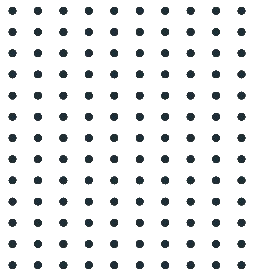
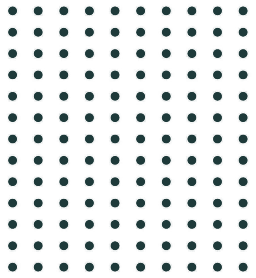
update 5
update 5

diff --git a/visual.css b/visual.css
@@ -18,6 +18,7 @@ body {
 
 .container_header_top {
     position: fixed;
+    z-index: 1;
 }
 
 .header_top {
@@ -364,11 +365,45 @@ body {
 .container_timeline_popup {
     display: flex;
     justify-content: center;
+    z-index: 2;
+
+    /* Overlay setup - only activates when body has popup_active */
+    position: fixed;
+    top: 0;
+    left: 0;
+    width: 100%;
+    height: 100%;
+
+    background-color: rgba(0, 0, 0, 0);
+    pointer-events: none;
+    transition: background-color 0.3s ease;
+}
+
+/* When popup is active: dark overlay + block background interaction */
+body.popup_active .container_timeline_popup {
+    background-color: rgba(0, 0, 0, 0.6);
+    pointer-events: auto;
+}
+
+/* Blur all body children EXCEPT the popup overlay when active */
+body.popup_active > *:not(.container_timeline_popup) {
+    filter: blur(5px);
+    pointer-events: none;
+}
+
+/* Prevent scrolling when popup is open */
+body.popup_active {
+    overflow: hidden;
+}
+
+/* Also blur the fixed header */
+body.popup_active .container_header_top {
+    filter: blur(5px);
+    pointer-events: none;
 }
 
 .timeline_popup {
     position: fixed;
-    z-index: 1;
 
     background-color: #646464 ;
     width: 80% ;
@@ -380,6 +415,8 @@ body {
     box-sizing: border-box;
 
     box-shadow: 0px 0px 20px 5px black;
+
+    pointer-events: auto;
 }
 
 /* POPUP EXIT BUTTON */
@@ -434,8 +471,9 @@ body {
 .timeline_popup_boxes {
     display: flex;
     flex-wrap: wrap;
-    gap: 3%;
+    gap: 2%;
     align-content: flex-start;
+    flex-direction: column;
 
     width: 60%;
     height: 100%;
@@ -459,24 +497,26 @@ body {
     height: 45%;
 
     background-color: #232730 ;
-    cursor: pointer;
     transition: transform 0.15s ease;
+    
+    border: 5px solid black ;
+    box-shadow: 0px 0px 20px 2px black;
 }
 
 .timeline_popup_box_steam:hover {
     transform: scale(1.02);
-    border: 8px solid black ;
 }
 
 .timeline_popup_box_steam:active {
     transform: scale(1.00);
-    border: 8px solid black ;
 }
 
 .timeline_popup_box_img {
     width: 48%;
     height: 45%;
     background-color: wheat;
+
+    border: 5px solid black ;
 }
 
 /* POPUP RIGHT SIDE: ORANGE TEXT BOX */
@@ -503,7 +543,7 @@ body {
     margin-bottom: 5%;
 
     background-image: url(images/background/background_spaced_dots.png);
-    background-size: 5vw;
+    background-size: 4vw;
 }
 
 /* Webkit scrollbar styling for Chrome/Safari */

diff --git a/java.js b/java.js
@@ -12,9 +12,11 @@ function ShowTab_2() {
 
 function OpenPopup() {
   document.getElementById('container_tab_popup').style.display = 'block';
+  document.body.classList.add('popup_active');
 }
 function ClosePopup() {   // NOTAT: Leg til alle videre popup specific meldinger in i her
   document.getElementById('container_tab_popup').style.display = 'none';
+  document.body.classList.remove('popup_active');
 
   // Timeline functions for Popup
   document.getElementById('container_popup_1').style.display = 'none';
@@ -23,3 +25,34 @@ function ClosePopup() {   // NOTAT: Leg til alle videre popup specific meldinger
 function popup_1() {
   document.getElementById('container_popup_1').style.display = 'flex';
 }
+
+/// Button Sounds
+const clickSound = new Audio('sound/buttons/site_click.mp3');
+const hoverSound = new Audio('sound/buttons/site_hover.mp3');
+const holdSound = new Audio('sound/buttons/site_hold.mp3');
+clickSound.volume = 0.3; 
+hoverSound.volume = 0.3;
+holdSound.volume = 0.3;
+
+function OnClickSound() {
+  clickSound.currentTime = 0;
+  clickSound.play();
+}
+
+function OnHoverSound() {
+  hoverSound.currentTime = 0;
+  hoverSound.play();
+}
+
+function OnHoldSound() {
+  hoverSound.currentTime = 0;
+  hoverSound.play();
+}
+
+/// Keyboard press listeners
+// Close popup with ESC key
+document.addEventListener('keydown', function(e) {
+  if (e.key === 'Escape') {
+    ClosePopup();
+  }
+});

diff --git a/index.html b/index.html
@@ -16,6 +16,7 @@
 
     <!-- TIMELINE POPUP MESSAGES -->
     <div class="container_timeline_popup">
+
         <div class="timeline_popup" id="container_tab_popup"> <!-- SET TO NONE OTHERWISE TOLD SO -->
 
             <!-- EXIT BUTTON -->
@@ -54,7 +55,7 @@
                     <div class="timeline_popup_box_img" style="background-image: url(images/buttons/big/first_try_img_1.jpg); background-size: cover;"></div>
                     <div class="timeline_popup_box_img" style="background-image: url(images/buttons/big/first_try_img_2.jpg); background-size: cover;"></div>
                     <div class="timeline_popup_box_img" style="background-image: url(images/buttons/big/first_try_img_3.jpg); background-size: cover;"></div>
-                    <button class="timeline_popup_box_steam" style="background-image: url(images/buttons/big/steam_img.jpg); background-size: cover;"></button>
+                    <a href="https://steamcommunity.com/workshop/filedetails/?id=3513567869" target="_blank" class="timeline_popup_box_steam" style="background-image: url(images/buttons/big/steam_img.jpg); background-size: cover;"></a>
                 </div>
 
                 <!-- RIGHT SIDE: ORANGE TEXT BOX WITH SCROLLBAR -->
@@ -69,7 +70,9 @@
                             <p class="timeline_popup_subheader">Prior to creating these 5 maps, at which a time i saw nothing too the engine, i was making small levels with friends in Roblox based around things i played on that platform, but these we're merely early attempts</p>
                             <p class="timeline_popup_header">COMPETANSE</p>
                             <div class="timeline_popup_line"></div>
-                            <p class="timeline_popup_subheader">• SDK Hammer Engine</p>
+                            <ul class="timeline_popup_subheader">
+                                <li>SDK Hammer Engine</li>
+                            </ul>
                         </div>
                     </div>
                 </div>
@@ -87,8 +90,8 @@
 
     <div class="container_header_top">
         <div class="header_top">
-            <button onclick="ShowTab_1()"   class="header_top_button"> <p class="header_top_button_text">INTRO</p> </button>
-            <button onclick="ShowTab_2()"   class="header_top_button"> <p class="header_top_button_text">GAME DEVELOPMENT</p> </button>
+            <button onclick="ShowTab_1(); OnClickSound()" onmouseenter="OnHoverSound()" onmousedown="OnHoldSound()"    class="header_top_button"> <p class="header_top_button_text">INTRO</p> </button>
+            <button onclick="ShowTab_2(); OnClickSound()" onmouseenter="OnHoverSound()"     class="header_top_button"> <p class="header_top_button_text">GAME DEVELOPMENT</p> </button>
         </div>
     </div>
 
@@ -126,10 +129,10 @@
     <div class="container_about_me_pl">
         <div class="about_me_picture"></div>
         <div class="about_me_links">
-            <a href="https://no.linkedin.com/in/jonathan-erik-reppen-0915642a0/en?trk=people-guest_people_search-card" target="_blank" class="contact_button_1"></a>
-            <a href="mailto: [email redacted]" target="_blank" class="contact_button_2"></a>
-            <a href="https://github.com/JonathanPR-Github?tab=repositories" target="_blank" class="contact_button_3"></a>
-            <a href="https://www.youtube.com/@jonathnpr5934/videos" target="_blank" class="contact_button_4"></a>
+            <a href="https://no.linkedin.com/in/jonathan-erik-reppen-0915642a0/en?trk=people-guest_people_search-card" target="_blank" class="contact_button_1"     onclick="OnClickSound()" onmouseenter="OnHoverSound()"></a>
+            <a href="mailto: [email redacted]" target="_blank" class="contact_button_2"  onclick="OnClickSound()" onmouseenter="OnHoverSound()"></a>
+            <a href="https://github.com/JonathanPR-Github?tab=repositories" target="_blank" class="contact_button_3"    onclick="OnClickSound()" onmouseenter="OnHoverSound()"></a>
+            <a href="https://www.youtube.com/@jonathnpr5934/videos" target="_blank" class="contact_button_4"    onclick="OnClickSound()" onmouseenter="OnHoverSound()"></a>
         </div>
     </div>
 
@@ -150,12 +153,18 @@
             <div class="about_me_box_text">
                 <p>ABOUT THE TIMELINE</p>
                 <div class="about_me_line"></div>
-                <p>The Timeline is a few sections and rows of development i've done throughout my career, in it you will find a set of mods i made to video games and projects that i've been involved within the last few years alongside some other mixed elements of what i've worked on. </p
+                <p>The Timeline is a few sections and rows of development i've done throughout my career, in it you will find a set of mods i made to video games and projects that i've been involved within the last few years alongside some other mixed elements of what i've worked on. 
+                <br>The rows of boxes with images are the projects i've done, with icons on the top of the box related to the game its linked too. Once clicked on, it will open a popup with relevant information about what the project was about.</p
+
+                <p>The popups consists of information about what the project was related too, images and video explonations, links to any sites like Steam, the lenght of the development and what it was coded in. 
+                <br>On the bottom of the site, there is a section for competanse related to what was used in the project such as the programming language</p
+
                 <p>HOW TO INTERACT</p>
                 <div class="about_me_line"></div>
                 <p>To interact with the timeline, find a section listed on the page, hover over one of the boxes/images on the side sections, then click on them.</p>
-                <p>As soon as you've clicked on them, a popup message will tell you about the project/mod/game was related too, with information and video descriptions about it</p>
-                <p>You can close the popup message by clicking the X on top of the side of the popup message</p>
+                <p>As soon as you've clicked on them, a popup message will tell you about the project/mod/game was related too, with information and video descriptions about it. 
+                <br>While being in the popup, you cannot interact with anything outside of the popup, so you have to close it in order to do something else on the page.</p>
+                <p>You can close the popup message by clicking the X on top of the side of the popup message, or hitting ESC which will close it instantly</p>
             </div>
         </div>
     </div>